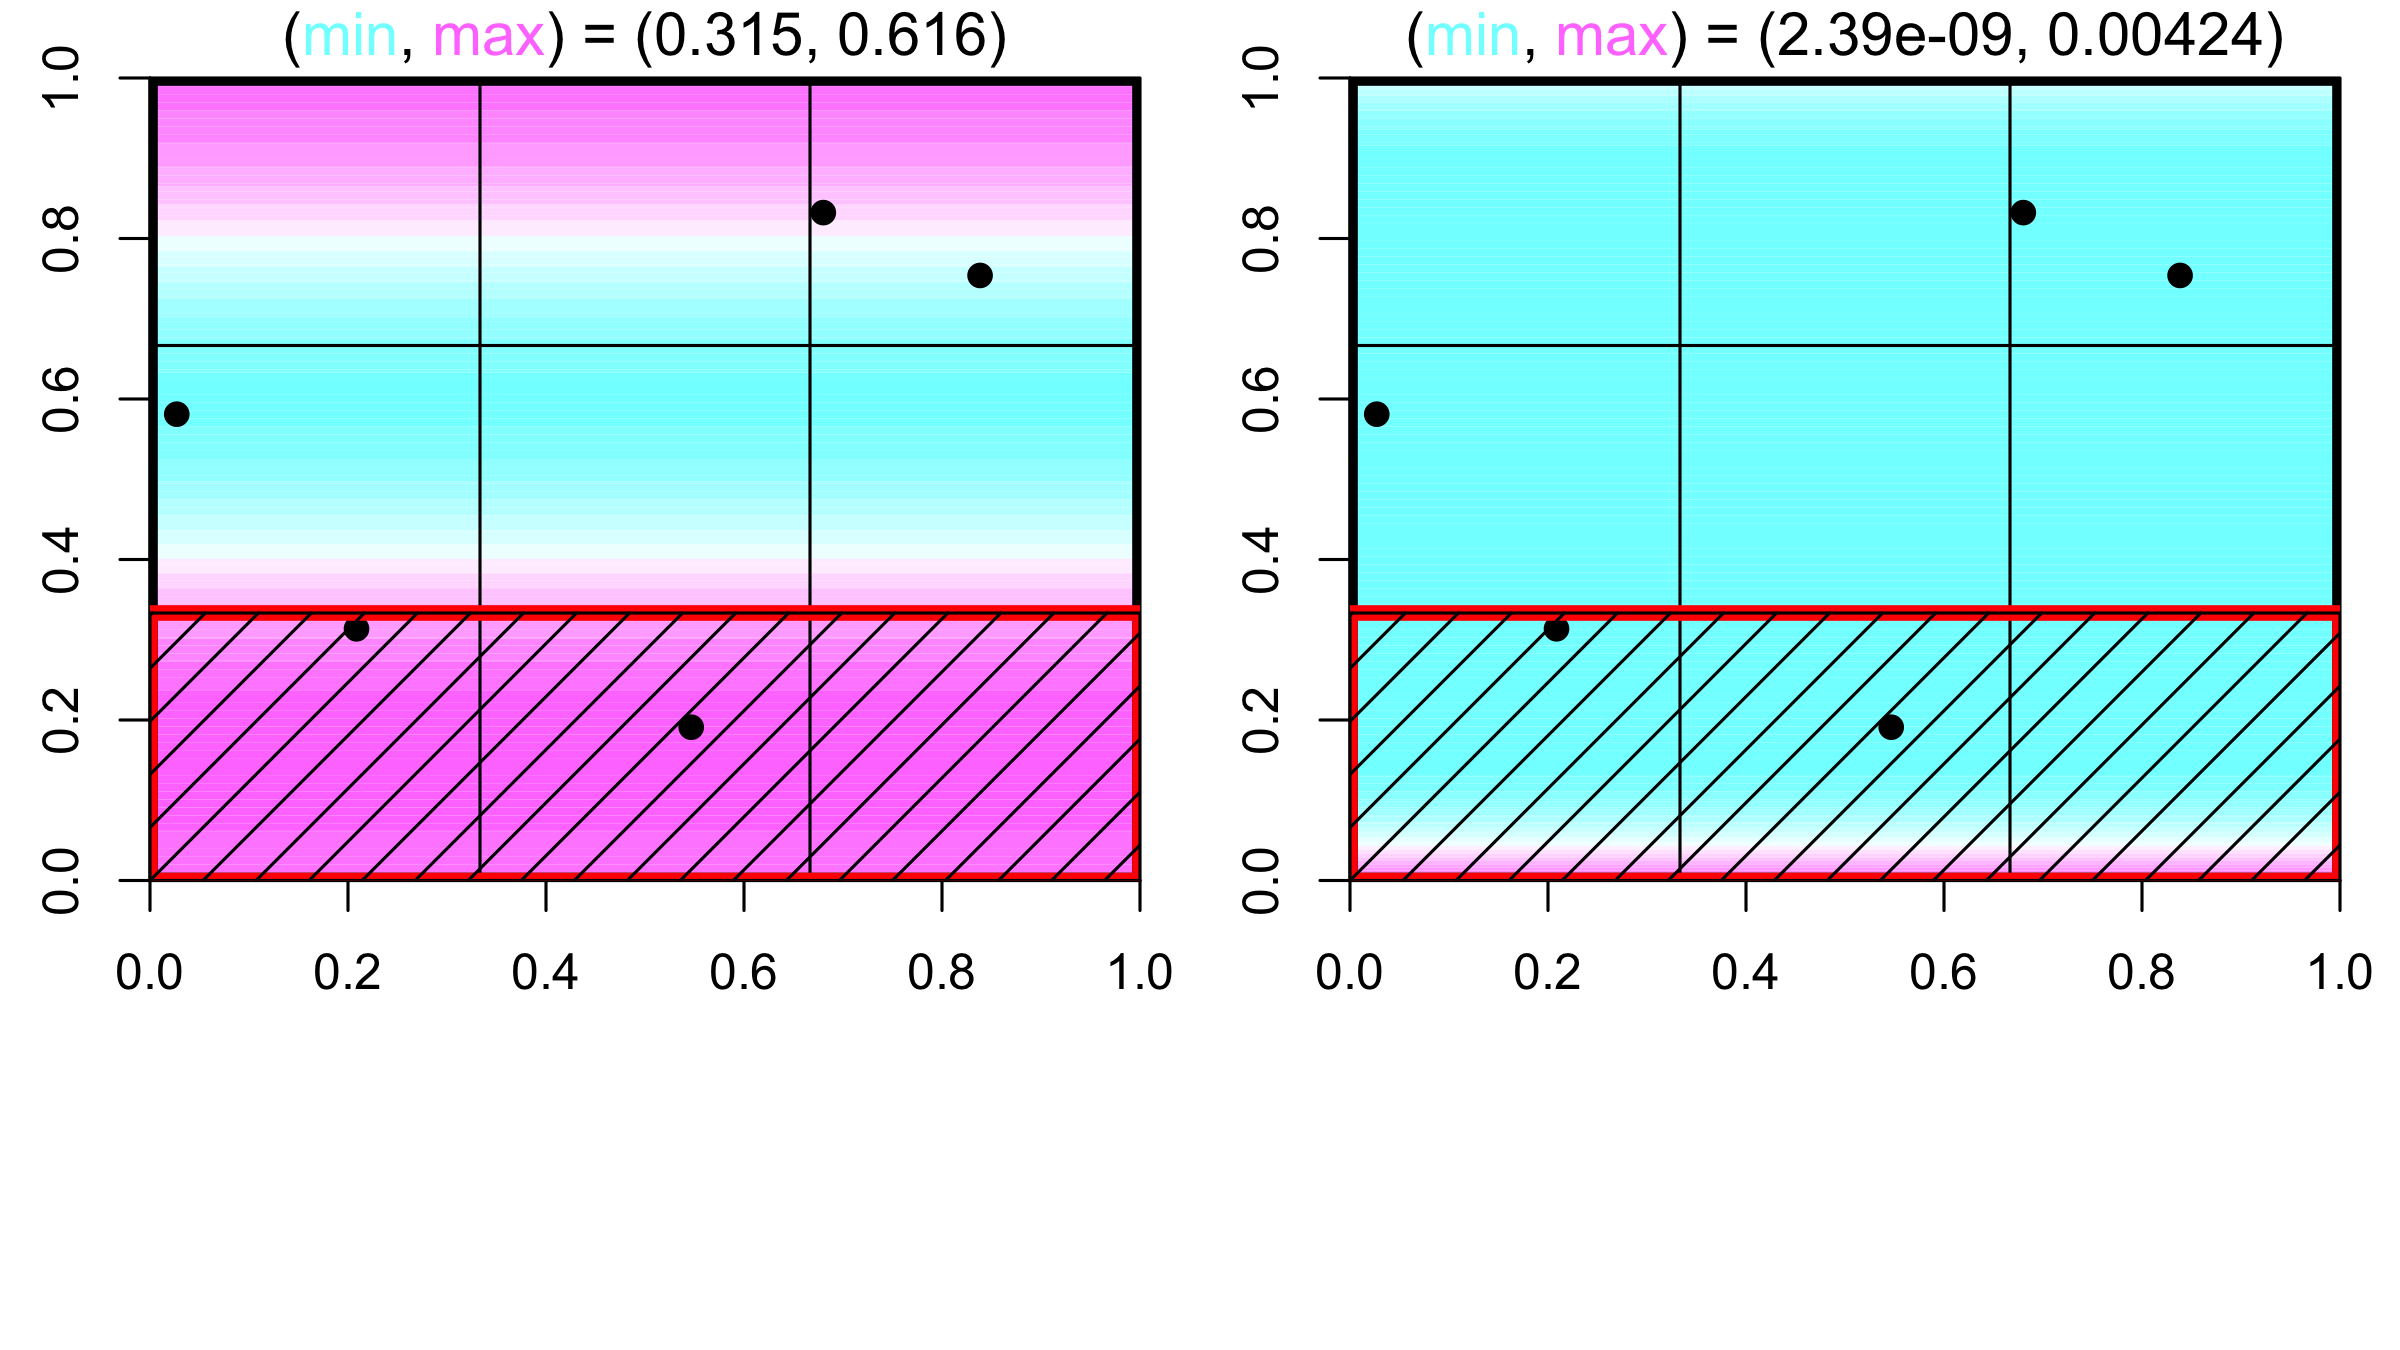
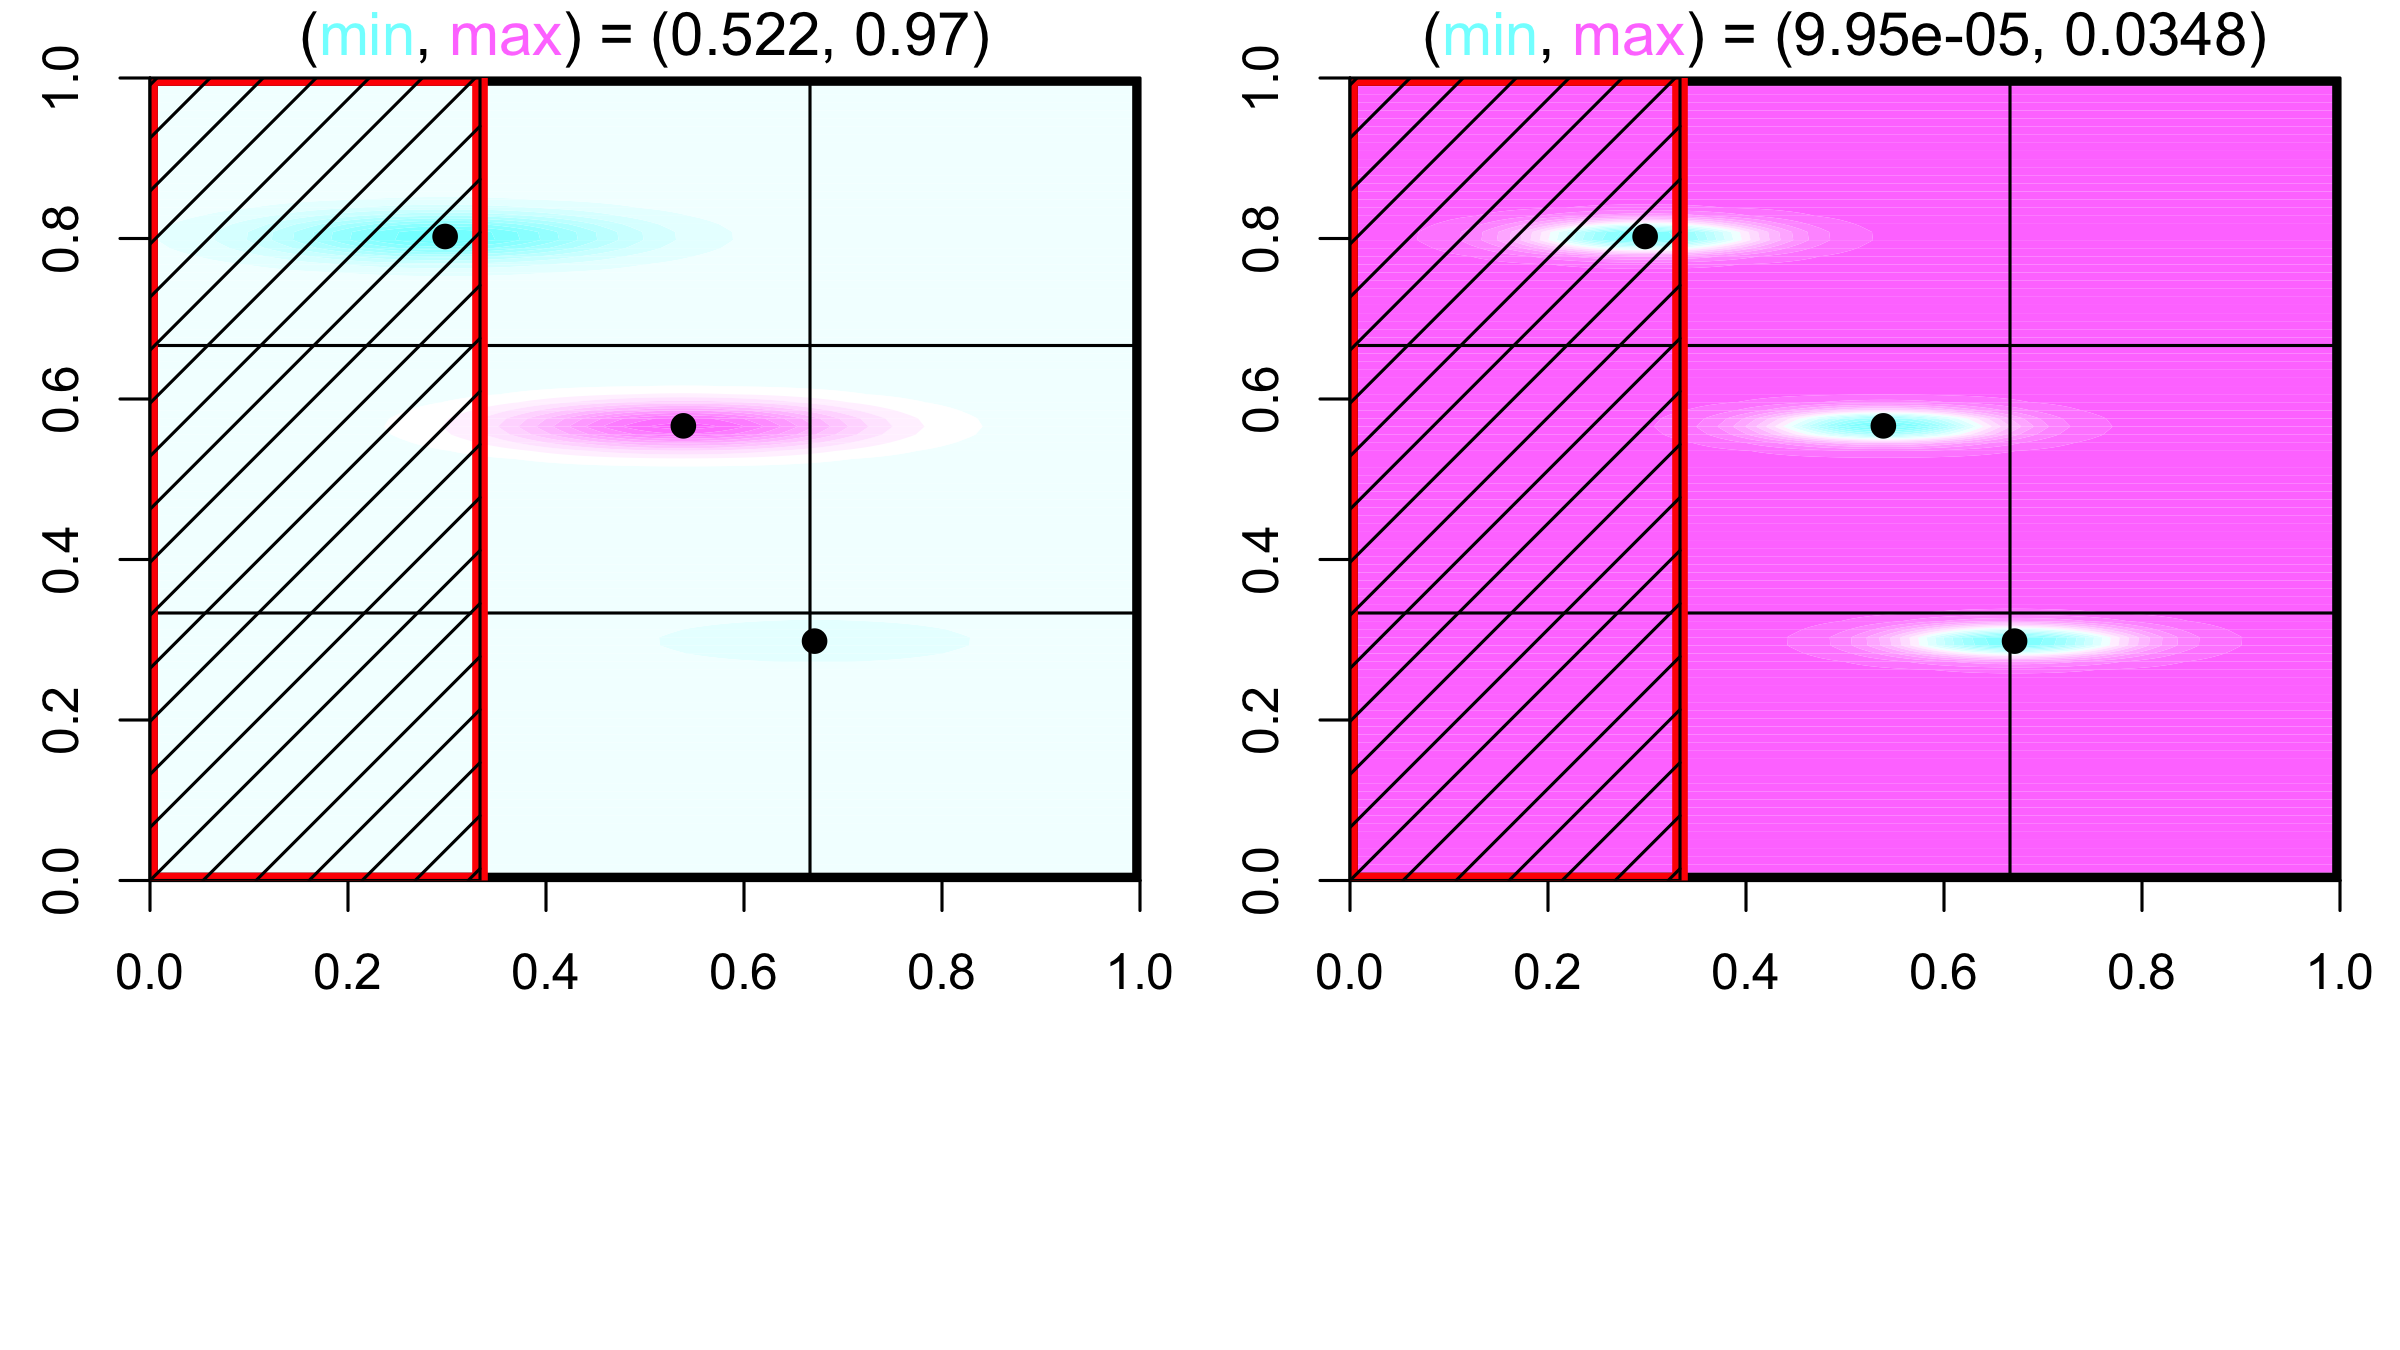
Updated presentation

diff --git a/adaptconcept_sFFLHD_RC.md b/adaptconcept_sFFLHD_RC.md
@@ -1,4 +1,4 @@
-adaptconcept_sFFLHD_RC
+Adaptive sFFLHD sampling concept
 ========================================================
 author: Collin Erickson
 date: 7/13/2016
@@ -26,12 +26,12 @@ s$get.batch()
 ```
 
 ```
-          [,1]      [,2]       [,3]
-[1,] 0.8382688 0.5280977 0.74472828
-[2,] 0.5814938 0.6391916 0.02985124
-[3,] 0.7542784 0.1638133 0.80409794
-[4,] 0.1813992 0.9460096 0.40016803
-[5,] 0.3191431 0.2637954 0.23064120
+           [,1]       [,2]       [,3]
+[1,] 0.80704681 0.76735849 0.02498429
+[2,] 0.07001103 0.54852614 0.76341669
+[3,] 0.61340117 0.82163175 0.58389773
+[4,] 0.37208543 0.32099826 0.25862690
+[5,] 0.59966032 0.05542548 0.85744879
 ```
 
 sFFLHD plot test
@@ -66,7 +66,7 @@ for(i in 1:27) points(s$get.batch(), col=i, pch=19)
 
 
 
-Example
+Example: Gaussian
 ================
 
 
@@ -87,40 +87,162 @@ title: FALSE
 
 <img src="adaptconcept_sFFLHD_RC-figure/unnamed-chunk-7-1.png" title="plot of chunk unnamed-chunk-7" alt="plot of chunk unnamed-chunk-7" width="1280px" height="800px" />
 
-a
+a2
 ===========
 title: FALSE
 
 <img src="adaptconcept_sFFLHD_RC-figure/unnamed-chunk-8-1.png" title="plot of chunk unnamed-chunk-8" alt="plot of chunk unnamed-chunk-8" width="1280px" height="800px" />
 
 
-a
+a3
 ===========
 title: FALSE
 
 <img src="adaptconcept_sFFLHD_RC-figure/unnamed-chunk-9-1.png" title="plot of chunk unnamed-chunk-9" alt="plot of chunk unnamed-chunk-9" width="1280px" height="800px" />
 
-a
+a4
 ===========
 title: FALSE
 
 <img src="adaptconcept_sFFLHD_RC-figure/unnamed-chunk-10-1.png" title="plot of chunk unnamed-chunk-10" alt="plot of chunk unnamed-chunk-10" width="1280px" height="800px" />
 
-a
+a5
 ===========
 title: FALSE
 
 <img src="adaptconcept_sFFLHD_RC-figure/unnamed-chunk-11-1.png" title="plot of chunk unnamed-chunk-11" alt="plot of chunk unnamed-chunk-11" width="1280px" height="800px" />
 
 
-a
+a6
 ===========
 title: FALSE
 
 <img src="adaptconcept_sFFLHD_RC-figure/unnamed-chunk-12-1.png" title="plot of chunk unnamed-chunk-12" alt="plot of chunk unnamed-chunk-12" width="1280px" height="800px" />
 
-a
+a7
 ===========
 title: FALSE
 
 <img src="adaptconcept_sFFLHD_RC-figure/unnamed-chunk-13-1.png" title="plot of chunk unnamed-chunk-13" alt="plot of chunk unnamed-chunk-13" width="1280px" height="800px" />
+
+a8
+===========
+title: FALSE
+
+<img src="adaptconcept_sFFLHD_RC-figure/unnamed-chunk-14-1.png" title="plot of chunk unnamed-chunk-14" alt="plot of chunk unnamed-chunk-14" width="1280px" height="800px" />
+
+a9
+===========
+title: FALSE
+
+<img src="adaptconcept_sFFLHD_RC-figure/unnamed-chunk-15-1.png" title="plot of chunk unnamed-chunk-15" alt="plot of chunk unnamed-chunk-15" width="1280px" height="800px" />
+
+a10
+===========
+title: FALSE
+
+
+```
+[1] "Going one deeper"
+```
+
+<img src="adaptconcept_sFFLHD_RC-figure/unnamed-chunk-16-1.png" title="plot of chunk unnamed-chunk-16" alt="plot of chunk unnamed-chunk-16" width="1280px" height="800px" />
+
+
+
+
+
+
+
+
+
+
+
+
+
+
+
+
+
+
+Example: Sinumoid
+================
+
+
+
+Actual function: Sinusoid with a plateau
+
+
+```r
+contourfilled.func(sinumoid)
+```
+
+![plot of chunk unnamed-chunk-18](adaptconcept_sFFLHD_RC-figure/unnamed-chunk-18-1.png)
+
+
+Adaptive sFFLHD
+===============
+title: FALSE
+
+<img src="adaptconcept_sFFLHD_RC-figure/unnamed-chunk-19-1.png" title="plot of chunk unnamed-chunk-19" alt="plot of chunk unnamed-chunk-19" width="1280px" height="800px" />
+
+a2
+===========
+title: FALSE
+
+<img src="adaptconcept_sFFLHD_RC-figure/unnamed-chunk-20-1.png" title="plot of chunk unnamed-chunk-20" alt="plot of chunk unnamed-chunk-20" width="1280px" height="800px" />
+
+
+a3
+===========
+title: FALSE
+
+<img src="adaptconcept_sFFLHD_RC-figure/unnamed-chunk-21-1.png" title="plot of chunk unnamed-chunk-21" alt="plot of chunk unnamed-chunk-21" width="1280px" height="800px" />
+
+a4
+===========
+title: FALSE
+
+<img src="adaptconcept_sFFLHD_RC-figure/unnamed-chunk-22-1.png" title="plot of chunk unnamed-chunk-22" alt="plot of chunk unnamed-chunk-22" width="1280px" height="800px" />
+
+a5
+===========
+title: FALSE
+
+<img src="adaptconcept_sFFLHD_RC-figure/unnamed-chunk-23-1.png" title="plot of chunk unnamed-chunk-23" alt="plot of chunk unnamed-chunk-23" width="1280px" height="800px" />
+
+
+a6
+===========
+title: FALSE
+
+<img src="adaptconcept_sFFLHD_RC-figure/unnamed-chunk-24-1.png" title="plot of chunk unnamed-chunk-24" alt="plot of chunk unnamed-chunk-24" width="1280px" height="800px" />
+
+a7
+===========
+title: FALSE
+
+
+```
+[1] "Going one deeper"
+```
+
+<img src="adaptconcept_sFFLHD_RC-figure/unnamed-chunk-25-1.png" title="plot of chunk unnamed-chunk-25" alt="plot of chunk unnamed-chunk-25" width="1280px" height="800px" />
+
+a8
+===========
+title: FALSE
+
+<img src="adaptconcept_sFFLHD_RC-figure/unnamed-chunk-26-1.png" title="plot of chunk unnamed-chunk-26" alt="plot of chunk unnamed-chunk-26" width="1280px" height="800px" />
+
+a9
+===========
+title: FALSE
+
+<img src="adaptconcept_sFFLHD_RC-figure/unnamed-chunk-27-1.png" title="plot of chunk unnamed-chunk-27" alt="plot of chunk unnamed-chunk-27" width="1280px" height="800px" />
+
+a10
+===========
+title: FALSE
+
+<img src="adaptconcept_sFFLHD_RC-figure/unnamed-chunk-28-1.png" title="plot of chunk unnamed-chunk-28" alt="plot of chunk unnamed-chunk-28" width="1280px" height="800px" />
